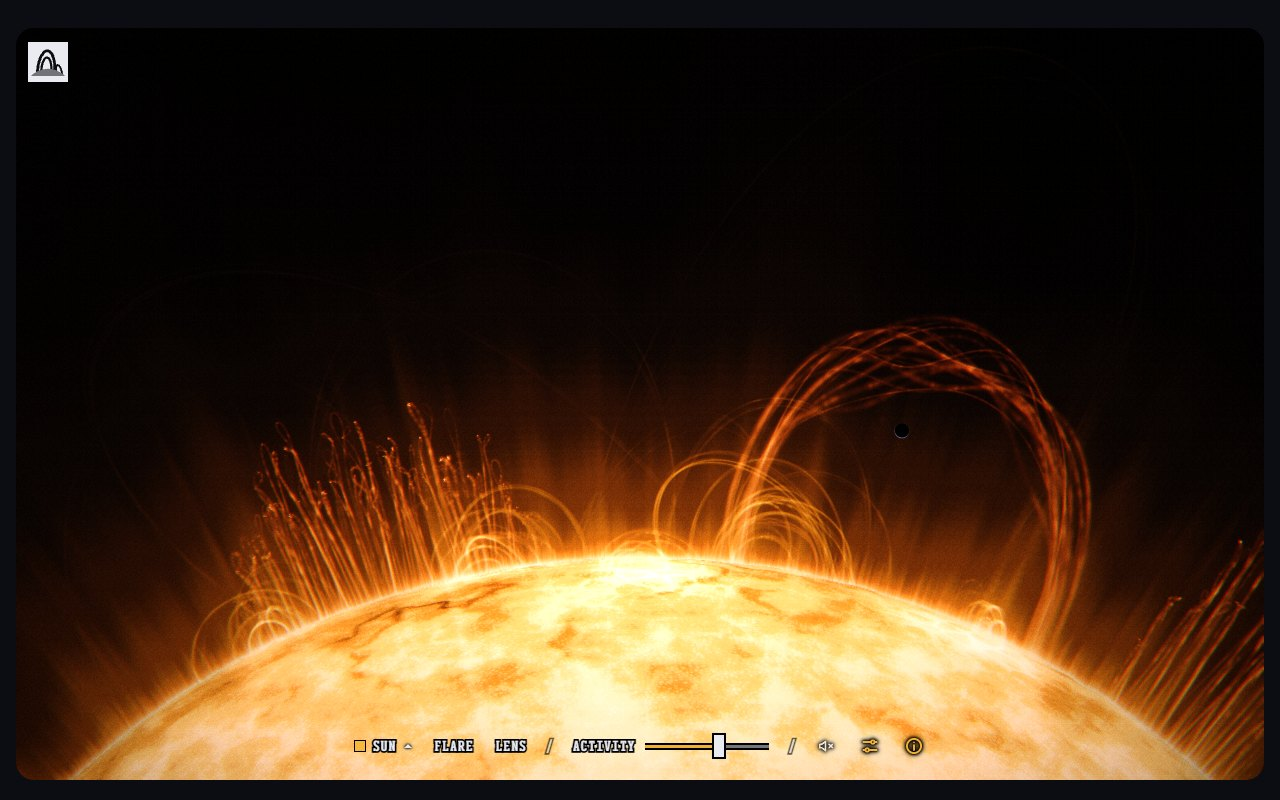
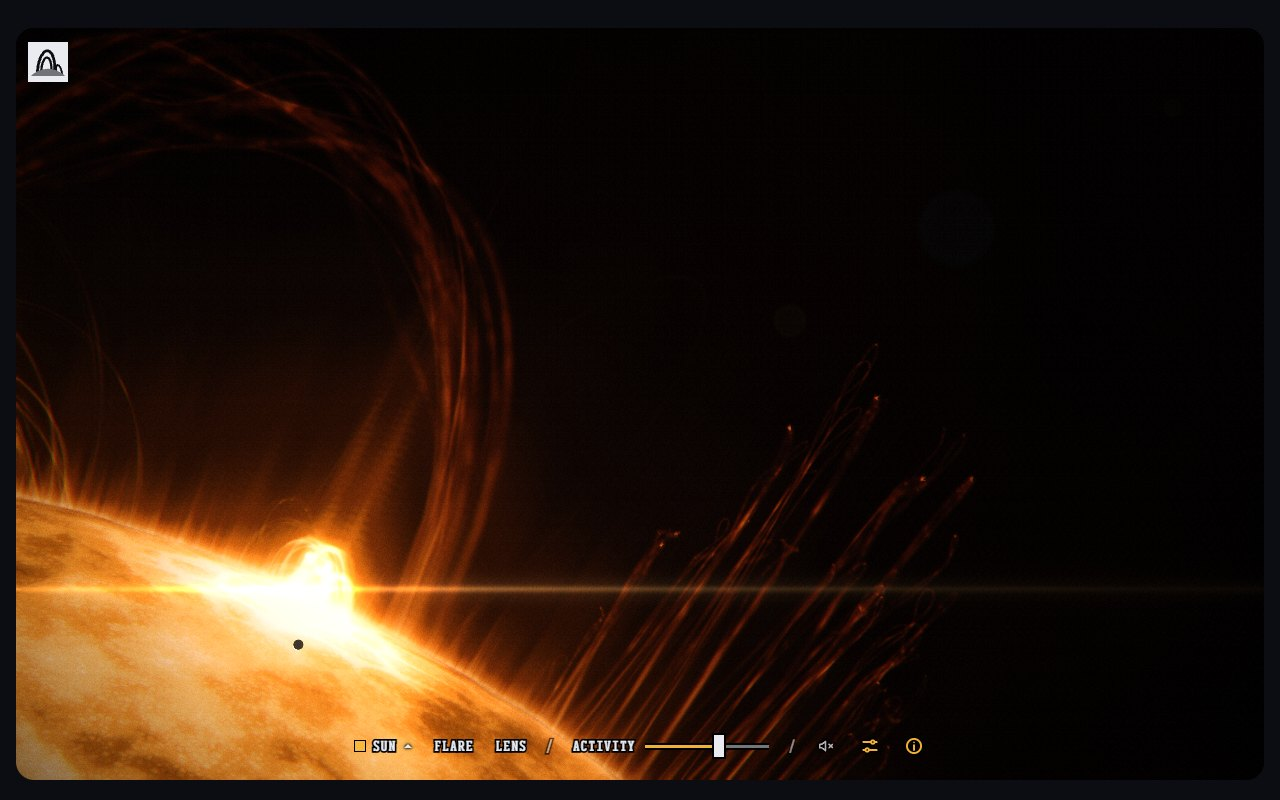
Solar loop: the long lens is the default, as Tom chose; L opens the wide view. Mercury starts clear of the Bar. The bean gains its cinema pass and long lens sections, lost to a line-ending mismatch before. QA captures 02 to 09 retaken on the long lens (stimming-e35i)

diff --git a/solarloop/main.js b/solarloop/main.js
@@ -40,7 +40,8 @@ let cssW = 1, cssH = 1, started = false, lastInput = 0, drifting = 1;
 const view = { cx: 0, cy: R, hw: 280, hh: 175, W: 1, H: 1, asp: 1.6 };
 // Two framings: the wide dome, and a long lens on a quarter of the limb.
 const fit = { wide: { cx: 0, cy: R, hw: 520 }, long: { cx: 0, cy: R, hw: 280, psi: 0.5 } };
-const lens = { long: store.get('lens') === 'long', k: 0 };
+// The long lens is the default (Tom, 2026-11-23).
+const lens = { long: store.get('lens') !== 'wide', k: 0 };
 lens.k = lens.long ? 1 : 0;
 function fitView(w, h, top = 0, bottom = 0) {
   const asp = w / h;
@@ -253,7 +254,7 @@ function makeFrame() {
   const tx = Math.cos(L.psi), ty = -Math.sin(L.psi);
   // The transit runs along a chord just inside the limb, over about five minutes.
   const span = 2.4 * Math.hypot(L.hw, lh);
-  const s0 = ((st.time * 1.5 + span * 0.47) % span) - span / 2;
+  const s0 = ((st.time * 1.5 + span * 0.53) % span) - span / 2;
   const depth = R - 0.16 * lh;
   // It climbs away from the foot of the frame.
   const bx = depth * Math.sin(L.psi) - tx * s0, by = depth * Math.cos(L.psi) - ty * s0;

diff --git a/docs/toys/solarloop.md b/docs/toys/solarloop.md
@@ -4,7 +4,7 @@ Lab toy, idea 238. Bean `stimming-e35i`. Plan: `docs/plans/solarloop.md`.
 
 A star's edge at a vast scale, graded like film. The look takes its cue from two kinds of film: the sun as a furnace, all gold and white light, and the slow, hazy, monumental frame of large-scale science fiction.
 Five stars, from the red dwarf Proxima to the hypergiant VY Canis Majoris. The disk is a dome across the foot of the frame: boiling granules (or, on the red supergiants, a handful of giant cells), slow swirls, dark filaments. Above the limb, loops of plasma arc on field lines and drain back. Three giant prominences stand over everything: a hedgerow, a forest of fine threads, a twisted arch, and a tall curtain. A scale body hangs at true size: the earth beside our sun and Proxima, our sun beside the giants.
-The long lens (L) cuts the limb across the bottom left quarter of the frame; haze drifts in layers, and a small body crosses the disk: Mercury on our sun, a planet on Proxima, our sun itself on the giants.
+The long lens, the default, cuts the limb across the bottom left quarter of the frame; L opens the wide view; haze drifts in layers, and a small body crosses the disk: Mercury on our sun, a planet on Proxima, our sun itself on the giants.
 Tap a region and it flares: two ribbons flash, the core burns white with an anamorphic streak and lens ghosts, a twisted rope lifts off as a bulb and leaves the frame, a bubble swells and a wave runs over the disk. A new arcade snaps in, cools and rains back. Tap a prominence and it erupts: it lifts and swells into space over about 15 s, then forms again.
 
 ## Play
@@ -14,13 +14,13 @@ Tap a region and it flares: two ribbons flash, the core burns white with an anam
 | Click or tap the stage | Flares the region nearest the tap, or lifts off the prominence nearest the tap |
 | Drag | Turns the star up to 18 degrees each way; the surface follows the hand |
 | Star choice (1 to 5) | Sun, Proxima, Rigel, Betelgeuse, VY CMa |
-| Lens (L) | Zooms over about two seconds between the wide view and the long lens |
+| Lens (L) | Zooms over about two seconds between the long lens (the default) and the wide view |
 | Activity slider | How many loops live, how bright, how fast they cycle |
 | Flare (Space) | Flares each region in turn, the ones in view first |
 
 - The first frame is a picture: every loop at its own stage of life.
 - The view is orthographic. The wide view is 1040 star units across on a wide stage (760 at mid widths, 520 on a phone), so the limb reads as a dome; the limb's top stands about a quarter of the way up the free stage.
-- The long lens is 560 units across (420 at mid widths, 300 on a phone). The limb runs from the middle of the foot to the middle of the left side; black space fills the rest. The tone curve presses darker and harder, the vignette deepens and three layers of haze drift at three speeds.
+- The long lens is the default (Tom, 2026-11-23). It is 560 units across (420 at mid widths, 300 on a phone). The limb runs from the middle of the foot to the middle of the left side; black space fills the rest. The tone curve presses darker and harder, the vignette deepens and three layers of haze drift at three speeds.
 
 ## The stars
 

diff --git a/.beans/stimming-e35i--toy-solar-loop.md b/.beans/stimming-e35i--toy-solar-loop.md
@@ -39,6 +39,21 @@ Stack type: Shader, raw WebGL2 (shared/gl.js, bloom from shared/glow.js). No sha
 - Icon: no pick existed. Round solarloop-1 (Current, A, D); A is on the menu; the intro emblem is A's emblem.
 - Draft Dutch name: Zonnelus /ˈzɔnəlʏs/. Accent oklch(0.8 0.15 80).
 
+## Cinema pass (Tom's words: Sunshine with a spritz of Villeneuve)
+
+- A wide frame: the limb is a dome; half the frame is black sky.
+- Giant prominences: a hedgerow (80 threads, 165 units), an arch (18 twisted threads, 205 units) and a tall curtain (46 threads, 240 units); a tap lifts any of them off into space; each forms again by 46 s.
+- Two light channels (hot, cool); a film tone curve; a colour ramp per channel per star.
+- Light rays and shafts, heat shimmer, colour split, halation, an anamorphic streak and lens ghosts on a flare, film grain.
+- Disk: boiling granules, slow swirls, dark filaments. Sound: a deep hum while awake; a low brass blast on flares and eruptions.
+
+## Long lens and stars (Tom's words: a long lens, the bottom left quarter for the arc cut, Mercury in transit, creepy scale; instead of colours, more stars, like VY Canis Majoris)
+
+- The long lens is the default (Tom chose it). Lens (L) zooms over about two seconds between it and the wide view. The limb runs from the middle of the foot to the middle of the left side. Darker, harder tones, a deeper vignette, three haze layers.
+- A body crosses the disk at true size: Mercury on the sun, a planet on Proxima, our sun on Rigel, Betelgeuse and VY CMa.
+- Star choice (1 to 5) replaces Band. The model runs in star units, so the scale body carries the scale: the earth is a seventh of Proxima's width; our sun is a speck one pixel wide beside VY CMa.
+- The giants: a handful of giant cells, strong limb darkening, a dust envelope, dim loops.
+
 ## Reference
 
 TRACE 171, loops over the eastern limb, 6 November 1999: fans of fine threads, bright feet, a dark mottled disk. SDO 131, 171 and 304, the limb flare of May 2013: a saturated core with a diagonal diffraction cross and a vertical bleed line; the three colour tables. Papers on flare-driven coronal rain: rain shows best in 304.
@@ -61,3 +76,5 @@ TRACE 171, loops over the eastern limb, 6 November 1999: fans of fine threads, b
 
 - 7826b742: the toy, toys.json entry, plan, toy doc, QA captures, intro emblem, favicon, bean.
 - a9d61361: menu Lab tile and hook, icon round solarloop-1, emblems, sheet row.
+- 69ca056c: the cinema pass.
+- be04ba72: five stars and the long lens.

diff --git a/docs/plans/solarloop.md b/docs/plans/solarloop.md
@@ -64,7 +64,7 @@ Tom's words: a long lens, a tight frame of the quarter arc (crop of its top half
 
 | | Choice |
 |---|---|
-| Lens | An action, Lens (L), as in Jet hover. The long lens is about half the wide view's width; the limb runs from the middle of the foot to the middle of the left side. A darker, harder tone curve, a deeper vignette, three haze layers at three speeds |
+| Lens | The long lens is the default (Tom, 2026-11-23). An action, Lens (L), as in Jet hover, opens the wide view. The long lens is about half the wide view's width; the limb runs from the middle of the foot to the middle of the left side. A darker, harder tone curve, a deeper vignette, three haze layers at three speeds |
 | Transit | A body crosses the disk on a chord just inside the limb, at true size, climbing away from the Bar |
 | Stars | The Band choice becomes a Star choice: Sun, Proxima, Rigel, Betelgeuse, VY CMa. The model runs in star units, so a scale body's size carries the scale: the earth beside the sun and Proxima, our sun beside the giants |
 | Giants | Few giant convection cells, strong limb darkening, a dust envelope (arcs, knots, patches over the disk), dimmer loops |
